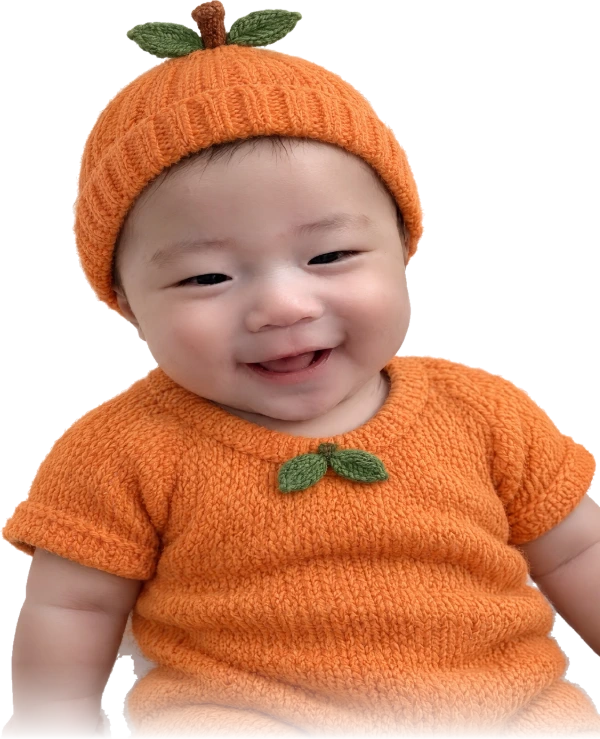
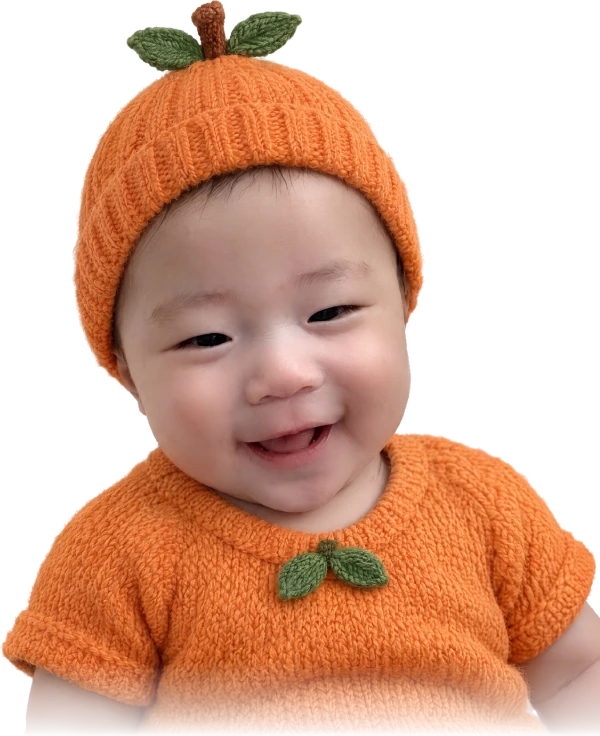
태오 사진 비율 바로잡기 (아래 자를 때 세로로 눌려 있던 것)
Claude-Session: https://claude.ai/code/session_01L974RKAuc4pU7xHs97Xkm5

diff --git a/index.html b/index.html
@@ -9,7 +9,7 @@
 <meta property="og:site_name" content="2026 가을 제주 가족여행">
 <meta property="og:title" content="태오랑 제주 여행 · 2026 가을 가족여행">
 <meta property="og:description" content="10.11(일) – 10.16(금) 5박 6일, 일곱 식구가 제주에서 만나요. 일정 · 지도 · 준비물 한눈에">
-<meta property="og:image" content="https://dkdldrmtit.github.io/JEJU/assets/og-taeo-gyul2.jpg">
+<meta property="og:image" content="https://dkdldrmtit.github.io/JEJU/assets/og-taeo-gyul3.jpg">
 <meta property="og:image:width" content="1200">
 <meta property="og:image:height" content="630">
 <meta property="og:url" content="https://dkdldrmtit.github.io/JEJU/">

diff --git a/assets/app.js b/assets/app.js
@@ -171,7 +171,7 @@
       </div>
       ${H.photo ? `<figure class="inv-photo">
         <p class="inv-bubble">${esc(H.bubble || '')}</p>
-        <span class="inv-flip f0" data-flip><img src="${esc(H.photo)}" alt="${esc(H.alt || '')}" width="600" height="739" fetchpriority="high"></span>
+        <span class="inv-flip f0" data-flip><img src="${esc(H.photo)}" alt="${esc(H.alt || '')}" width="600" height="736" fetchpriority="high"></span>
       </figure>` : ICON.mandarin}
     </section>`;
   }

diff --git a/data/trip.js b/data/trip.js
@@ -14,7 +14,7 @@ window.TRIP = {
   share: {
     title: '태오가 보내는 초대장',
     text: '태오랑 제주 여행 가요! 10.11(일) – 10.16(금) 5박 6일, 일곱 식구가 제주에서 만나요.',
-    image: 'https://dkdldrmtit.github.io/JEJU/assets/og-taeo-gyul2.jpg',
+    image: 'https://dkdldrmtit.github.io/JEJU/assets/og-taeo-gyul3.jpg',
     button: '초대장 열기',
   },
   /* 홈 맨 위 초대 카드 */

diff --git a/README.md b/README.md
@@ -22,7 +22,7 @@
 
 - `assets/app.js` — 데이터를 화면으로 그리는 코드
 - `assets/style.css` — 디자인
-- `assets/og-taeo-gyul2.jpg` — 카카오톡에 링크 보낼 때 뜨는 미리보기 그림
+- `assets/og-taeo-gyul3.jpg` — 카카오톡에 링크 보낼 때 뜨는 미리보기 그림
 
 ## GitHub Pages로 공개하기
 
